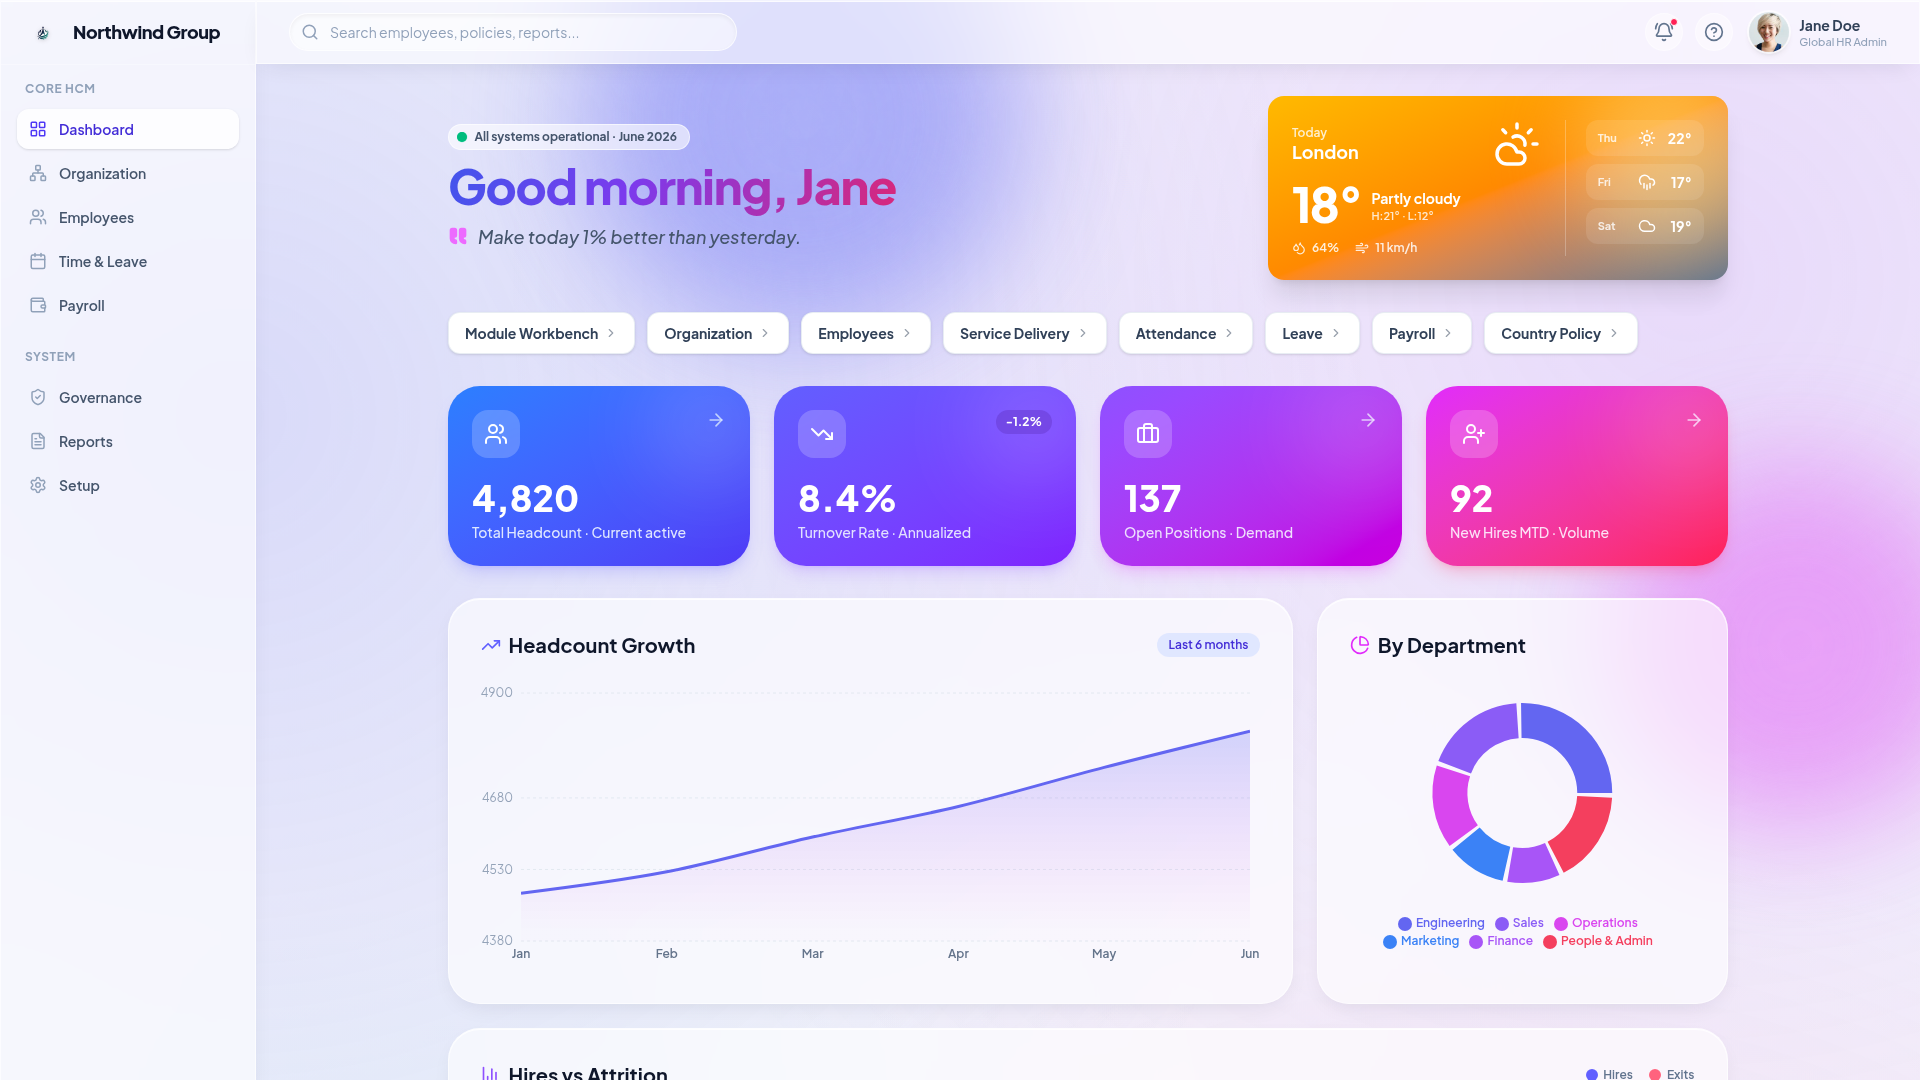
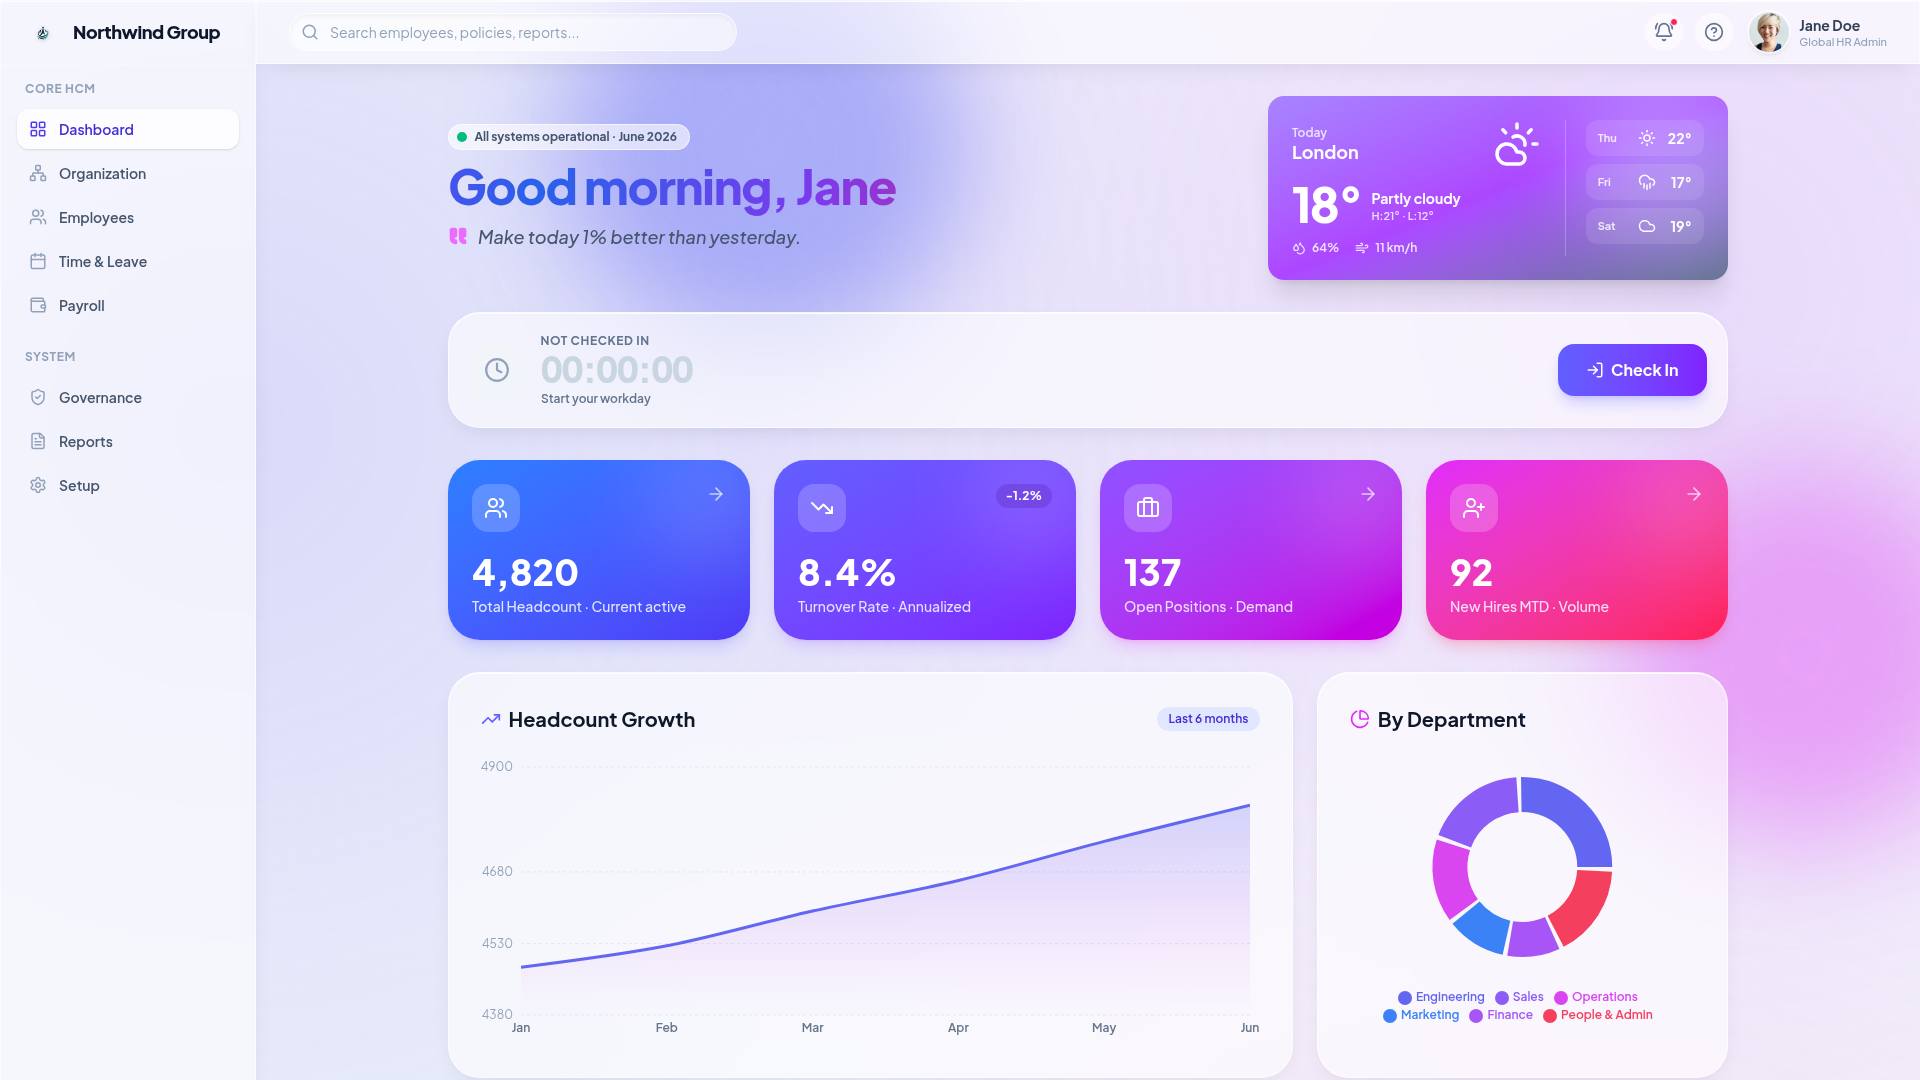
Add a time tracking feature to the dashboard for employees
Replaces the "Quick links" section with a new CheckInWidget component. This component allows users to check in and out, displaying a live timer that tracks the duration of their work session. It includes visual indicators for active status and the ability to view the check-in time.

Replit-Commit-Author: Agent
Replit-Commit-Session-Id: 4e185bfa-7984-477e-87ea-a35de27cbb4c
Replit-Commit-Checkpoint-Type: full_checkpoint
Replit-Commit-Event-Id: f2313719-f90e-4a50-86da-26d2f8b98fa8
Replit-Commit-Screenshot-Url: https://storage.googleapis.com/screenshot-production-us-central1/4ba3be44-b2b7-437a-b9c0-b3eb791af892/4e185bfa-7984-477e-87ea-a35de27cbb4c/UuCX2g5
Replit-Helium-Checkpoint-Created: true

diff --git a/artifacts/mockup-sandbox/src/components/mockups/hr-dashboard/Fusion.tsx b/artifacts/mockup-sandbox/src/components/mockups/hr-dashboard/Fusion.tsx
@@ -1,4 +1,4 @@
-import React from "react";
+import React, { useState, useEffect } from "react";
 import {
   Users,
   TrendingDown,
@@ -35,6 +35,8 @@ import {
   CloudLightning,
   Droplets,
   Wind,
+  LogIn,
+  LogOut,
 } from "lucide-react";
 import {
   AreaChart as ReAreaChart,
@@ -65,14 +67,14 @@ const weatherThemes = {
   sunny: {
     label: "Sunny",
     Icon: Sun,
-    gradient: "from-amber-400 via-orange-400 to-orange-500",
-    glow: "bg-amber-200/50",
+    gradient: "from-fuchsia-400 via-purple-500 to-violet-600",
+    glow: "bg-fuchsia-300/50",
   },
   "partly-cloudy": {
     label: "Partly cloudy",
     Icon: CloudSun,
-    gradient: "from-amber-400 via-orange-400 to-slate-500",
-    glow: "bg-amber-200/50",
+    gradient: "from-violet-400 via-purple-500 to-slate-500",
+    glow: "bg-violet-300/50",
   },
   cloudy: {
     label: "Cloudy",
@@ -225,6 +227,94 @@ const hiresAttrition = [
   { month: "May", hires: 88, exits: 44 },
   { month: "Jun", hires: 92, exits: 39 },
 ];
+
+function pad(n: number) {
+  return n.toString().padStart(2, "0");
+}
+
+function CheckInWidget() {
+  const [checkedInAt, setCheckedInAt] = useState<number | null>(null);
+  const [now, setNow] = useState(() => Date.now());
+
+  useEffect(() => {
+    if (checkedInAt === null) return;
+    const id = setInterval(() => setNow(Date.now()), 1000);
+    return () => clearInterval(id);
+  }, [checkedInAt]);
+
+  const isActive = checkedInAt !== null;
+  const totalSec = isActive ? Math.floor((now - checkedInAt) / 1000) : 0;
+  const hrs = Math.floor(totalSec / 3600);
+  const mins = Math.floor((totalSec % 3600) / 60);
+  const secs = totalSec % 60;
+  const checkInLabel = isActive
+    ? new Date(checkedInAt).toLocaleTimeString([], {
+        hour: "2-digit",
+        minute: "2-digit",
+      })
+    : null;
+
+  return (
+    <div className="fusion-glass rounded-[2rem] p-5 flex flex-col sm:flex-row sm:items-center justify-between gap-5">
+      <div className="flex items-center gap-4">
+        <div
+          className={`w-14 h-14 rounded-2xl flex items-center justify-center shrink-0 transition-colors ${
+            isActive
+              ? "bg-gradient-to-br from-emerald-400 to-teal-500 text-white"
+              : "bg-slate-100 text-slate-400"
+          }`}
+        >
+          <Clock size={26} />
+        </div>
+        <div>
+          <p className="text-xs font-bold uppercase tracking-wider text-slate-500 flex items-center gap-2">
+            {isActive && (
+              <span className="relative flex h-2 w-2">
+                <span className="fusion-pulse absolute inline-flex h-full w-full rounded-full bg-emerald-400" />
+                <span className="relative inline-flex rounded-full h-2 w-2 bg-emerald-500" />
+              </span>
+            )}
+            {isActive ? "On the clock" : "Not checked in"}
+          </p>
+          <span
+            className={`block text-4xl font-extrabold tracking-tight tabular-nums ${
+              isActive ? "fusion-gradient-text" : "text-slate-300"
+            }`}
+          >
+            {pad(hrs)}:{pad(mins)}:{pad(secs)}
+          </span>
+          <p className="text-xs font-semibold text-slate-500 mt-0.5">
+            {isActive ? `Checked in at ${checkInLabel}` : "Start your workday"}
+          </p>
+        </div>
+      </div>
+
+      <div className="flex items-center gap-3">
+        {!isActive ? (
+          <button
+            type="button"
+            onClick={() => {
+              const t = Date.now();
+              setCheckedInAt(t);
+              setNow(t);
+            }}
+            className="flex items-center gap-2 px-7 py-3.5 rounded-2xl font-bold text-white bg-gradient-to-r from-indigo-500 to-violet-600 shadow-lg shadow-indigo-500/25 hover:shadow-xl hover:shadow-indigo-500/30 transition-all active:scale-95"
+          >
+            <LogIn size={18} /> Check In
+          </button>
+        ) : (
+          <button
+            type="button"
+            onClick={() => setCheckedInAt(null)}
+            className="flex items-center gap-2 px-7 py-3.5 rounded-2xl font-bold text-white bg-gradient-to-r from-rose-500 to-fuchsia-600 shadow-lg shadow-rose-500/25 hover:shadow-xl hover:shadow-rose-500/30 transition-all active:scale-95"
+          >
+            <LogOut size={18} /> Check Out
+          </button>
+        )}
+      </div>
+    </div>
+  );
+}
 
 export function Fusion() {
   const dailyQuote = getDailyQuote(currentUser);
@@ -484,27 +574,8 @@ export function Fusion() {
               </div>
             </div>
 
-            {/* Quick links */}
-            <div className="flex flex-wrap gap-3">
-              {[
-                "Module Workbench",
-                "Organization",
-                "Employees",
-                "Service Delivery",
-                "Attendance",
-                "Leave",
-                "Payroll",
-                "Country Policy",
-              ].map((link, i) => (
-                <a
-                  key={i}
-                  href="#"
-                  className="text-sm font-bold px-4 py-2.5 bg-white border border-slate-200/80 rounded-xl text-slate-700 hover:text-indigo-600 hover:border-indigo-200 hover:bg-indigo-50/50 shadow-sm hover:shadow-md transition-all whitespace-nowrap flex items-center active:scale-95"
-                >
-                  {link} <ChevronRight size={14} className="ml-1.5 opacity-50" />
-                </a>
-              ))}
-            </div>
+            {/* Check-in / time tracker */}
+            <CheckInWidget />
 
             {/* Vivid bento KPI tiles (Bento) */}
             <div className="grid grid-cols-1 md:grid-cols-2 xl:grid-cols-4 gap-6">
